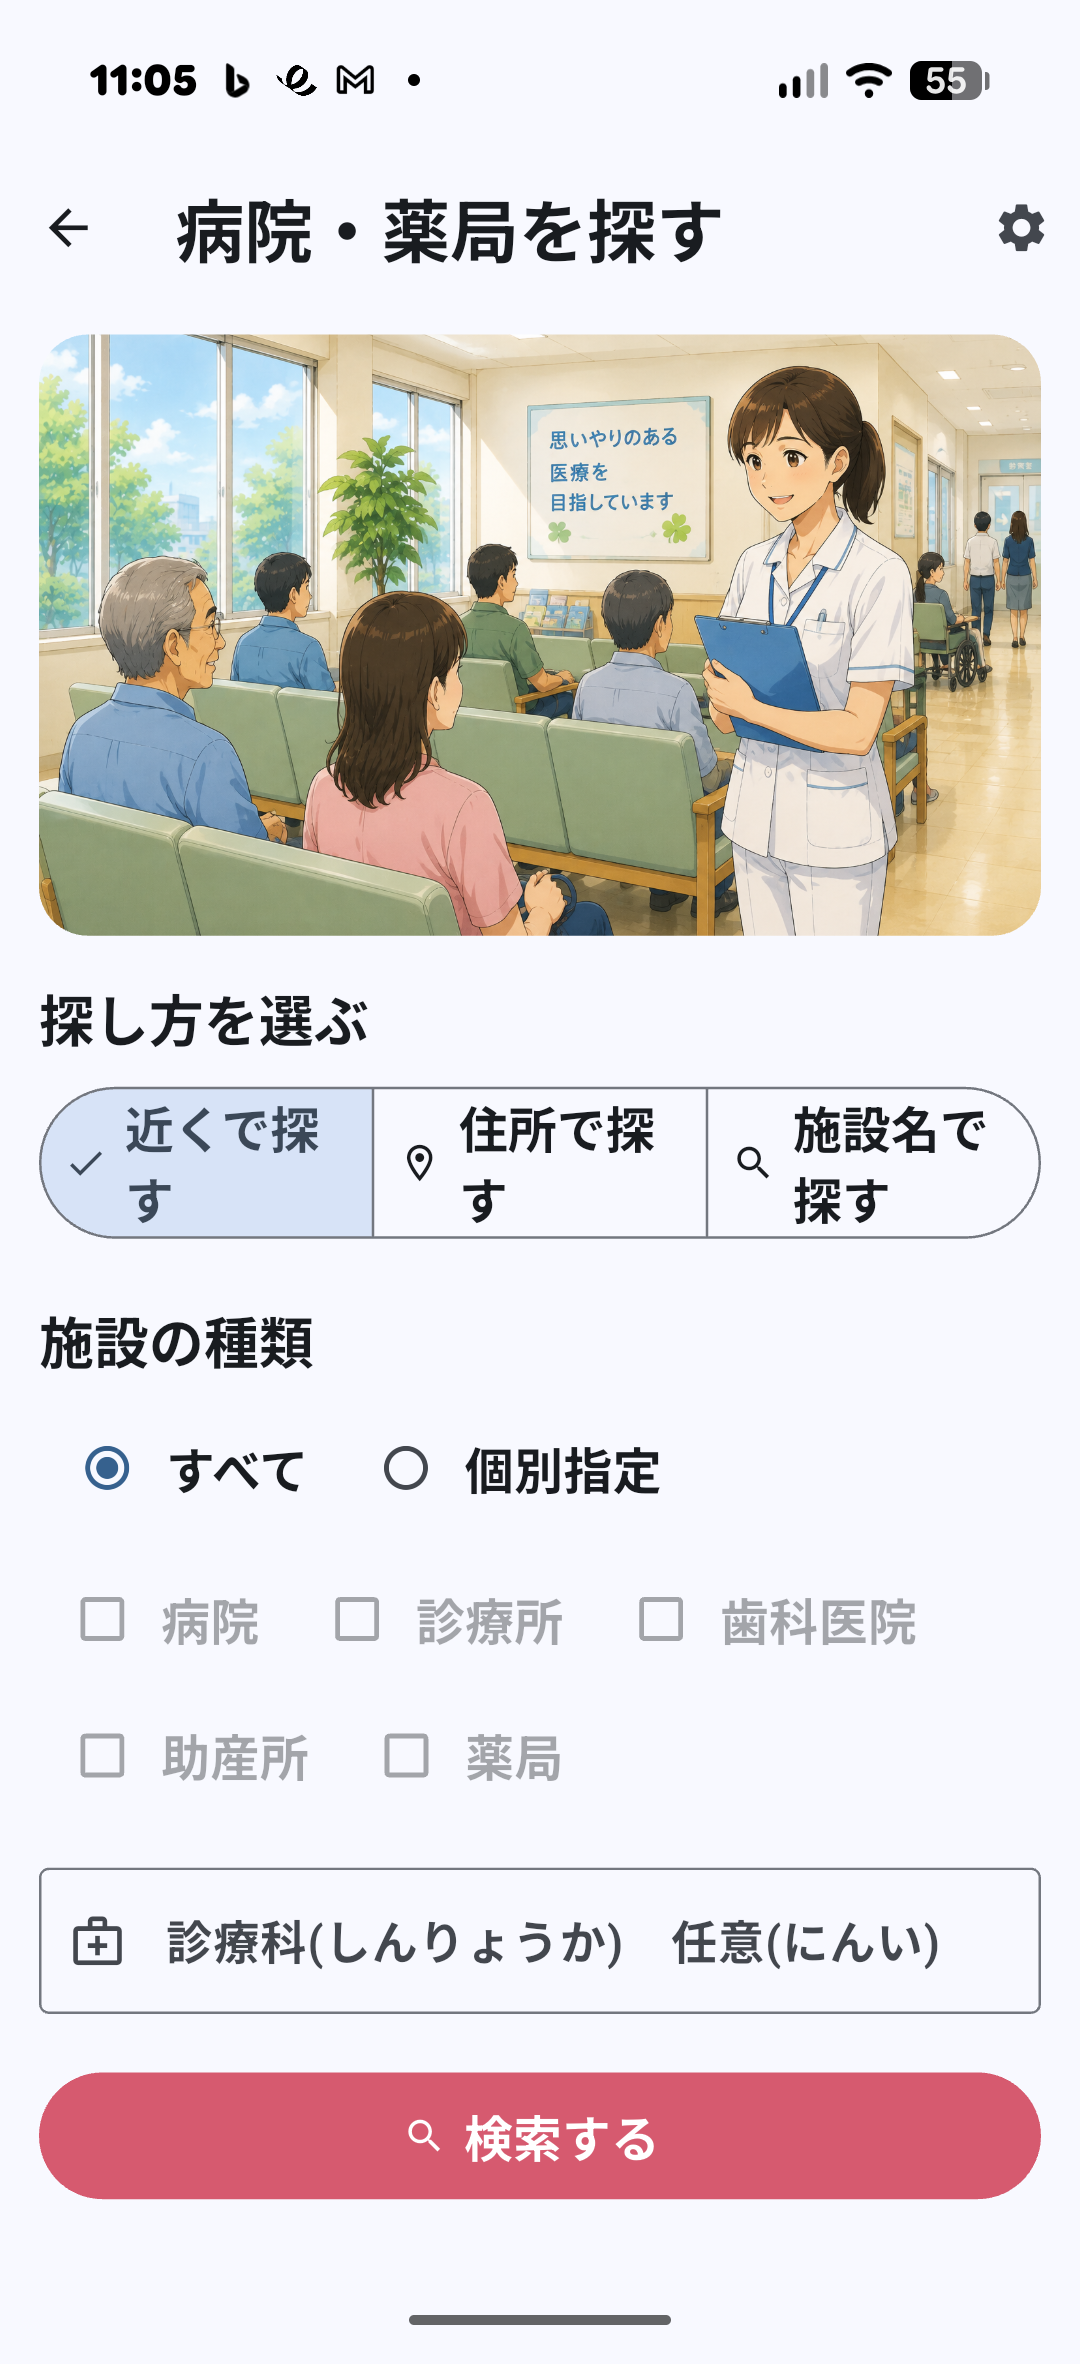
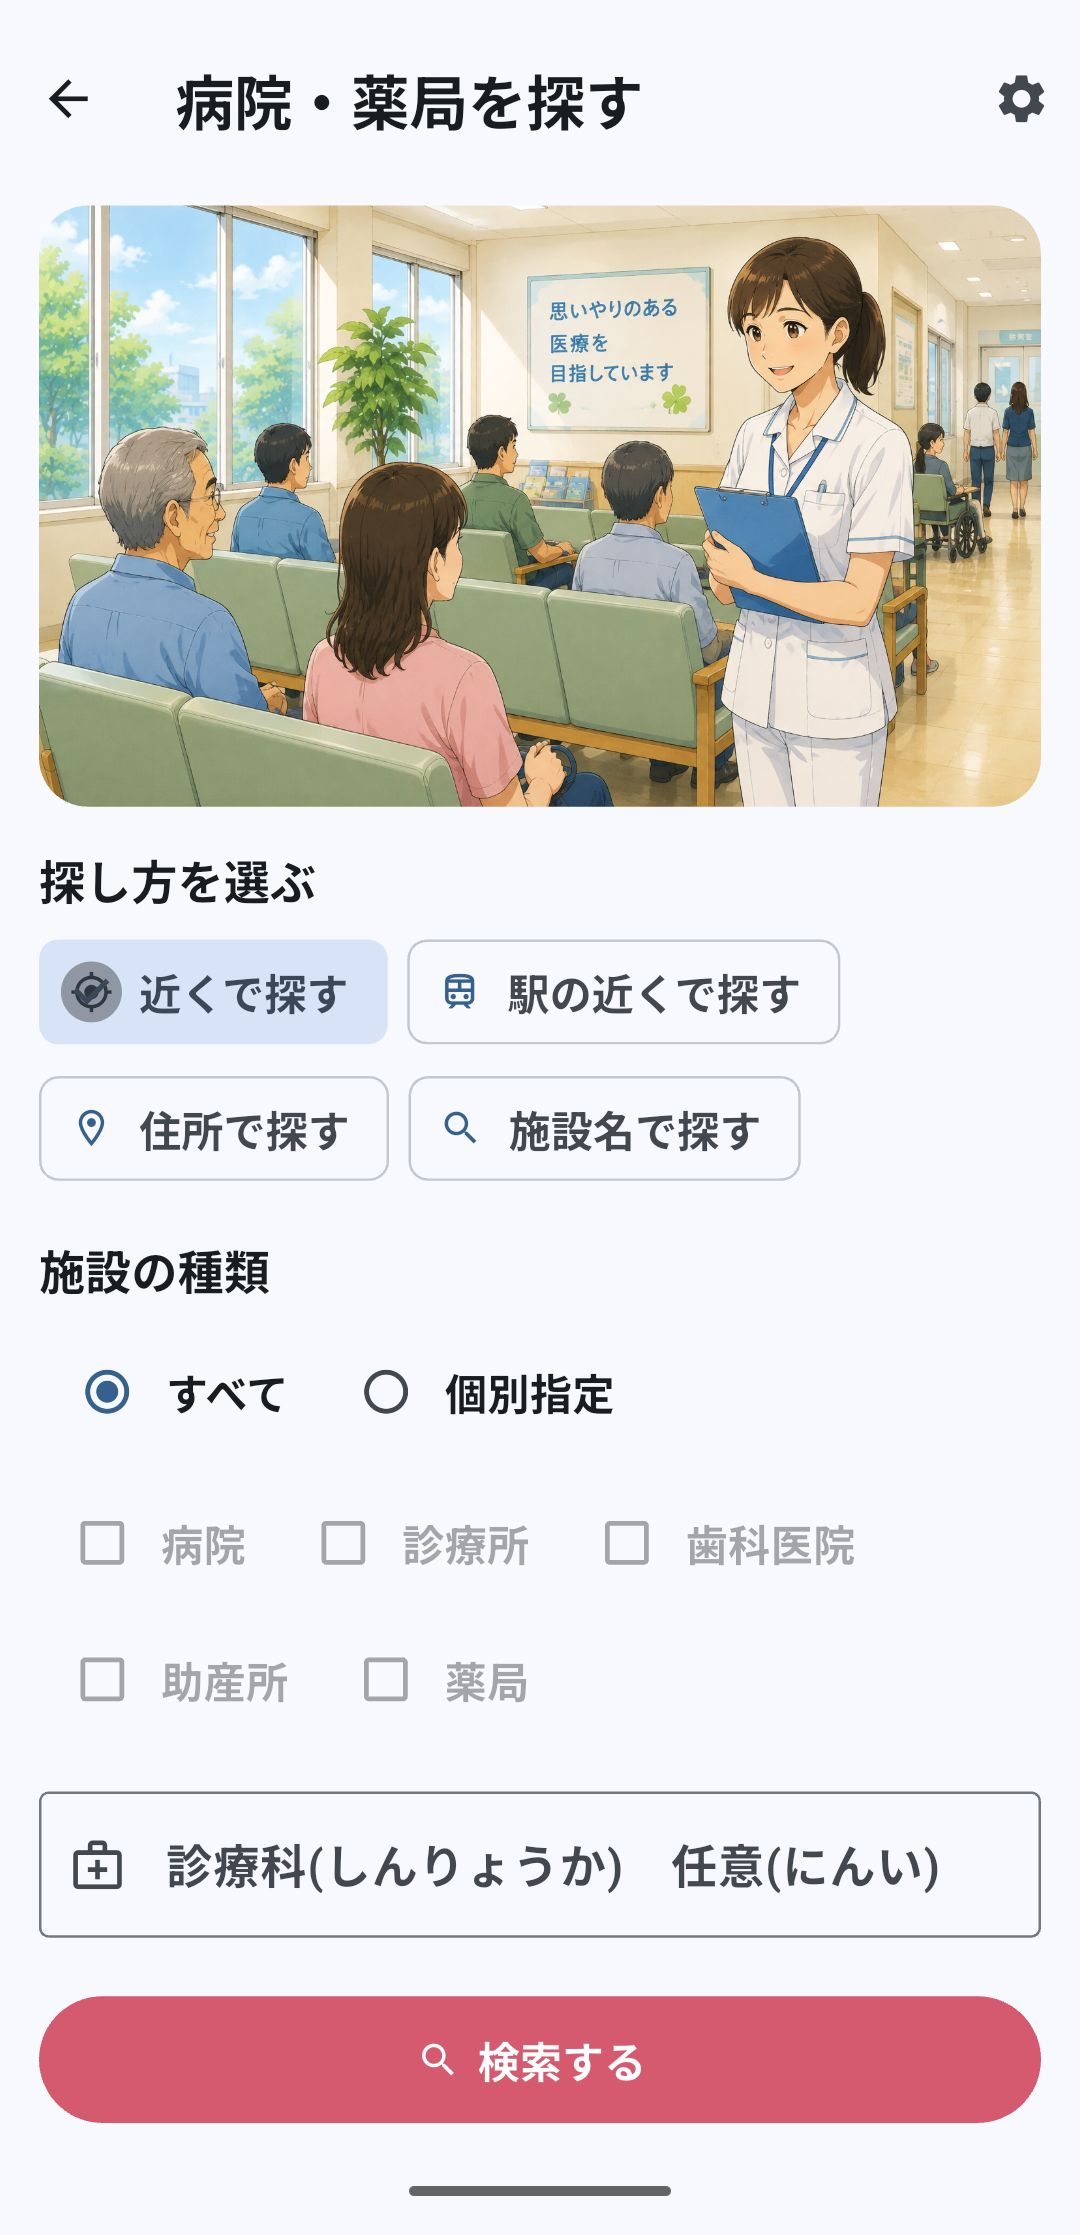
feat: add news section to homepage and images

diff --git a/index.html b/index.html
@@ -45,7 +45,7 @@
     href="./assets/images/apple-touch-icon.png"
   >
 
-  <link rel="stylesheet" href="./assets/css/style.css?ver=20260826r2">
+  <link rel="stylesheet" href="./assets/css/style.css?ver=20260826r3">
 </head>
 
 <body>
@@ -120,6 +120,45 @@
     </div>
   </section>
 
+  <!-- News -->
+  <section id="news" class="section news-section">
+    <div class="container narrow">
+
+      <div class="section-heading">
+        <h2>お知らせ</h2>
+      </div>
+
+      <div class="news-list">
+
+        <article class="news-item">
+          <time datetime="2026-08-26">2026年8月26日</time>
+          <div>
+            <h3>Android版 v1.0.1を公開しました</h3>
+            <p>
+              クローズドテスト版をv1.0.1に更新しました。
+              テスターの皆さまからいただいたご意見・ご報告をもとに、
+              銀行・ATM検索、病院・薬局の「駅の近く」検索を追加し、
+              一部の駅名検索を修正しました。
+            </p>
+          </div>
+        </article>
+
+        <article class="news-item">
+          <time datetime="2026-08-25">2026年8月25日</time>
+          <div>
+            <h3>Android版 クローズドテストを開始しました</h3>
+            <p>
+              Google Playでの正式公開に向けて、
+              Android版のクローズドテストを開始しました。
+            </p>
+            <a href="./tester/">テスト参加方法を見る</a>
+          </div>
+        </article>
+
+      </div>
+
+    </div>
+  </section>
 
   <!-- About -->
   <section id="about" class="section about-section">

diff --git a/assets/css/style.css b/assets/css/style.css
@@ -198,6 +198,10 @@ a:hover {
   background: var(--color-white);
 }
 
+.news-section {
+  padding: 56px 0;
+}
+
 .section-soft {
   background: var(--color-soft);
 }
@@ -722,6 +726,10 @@ figcaption {
 
   .section {
     padding: 56px 0;
+  }
+
+  .news-section {
+    padding: 40px 0;
   }
 
   .screenshot-pair {
